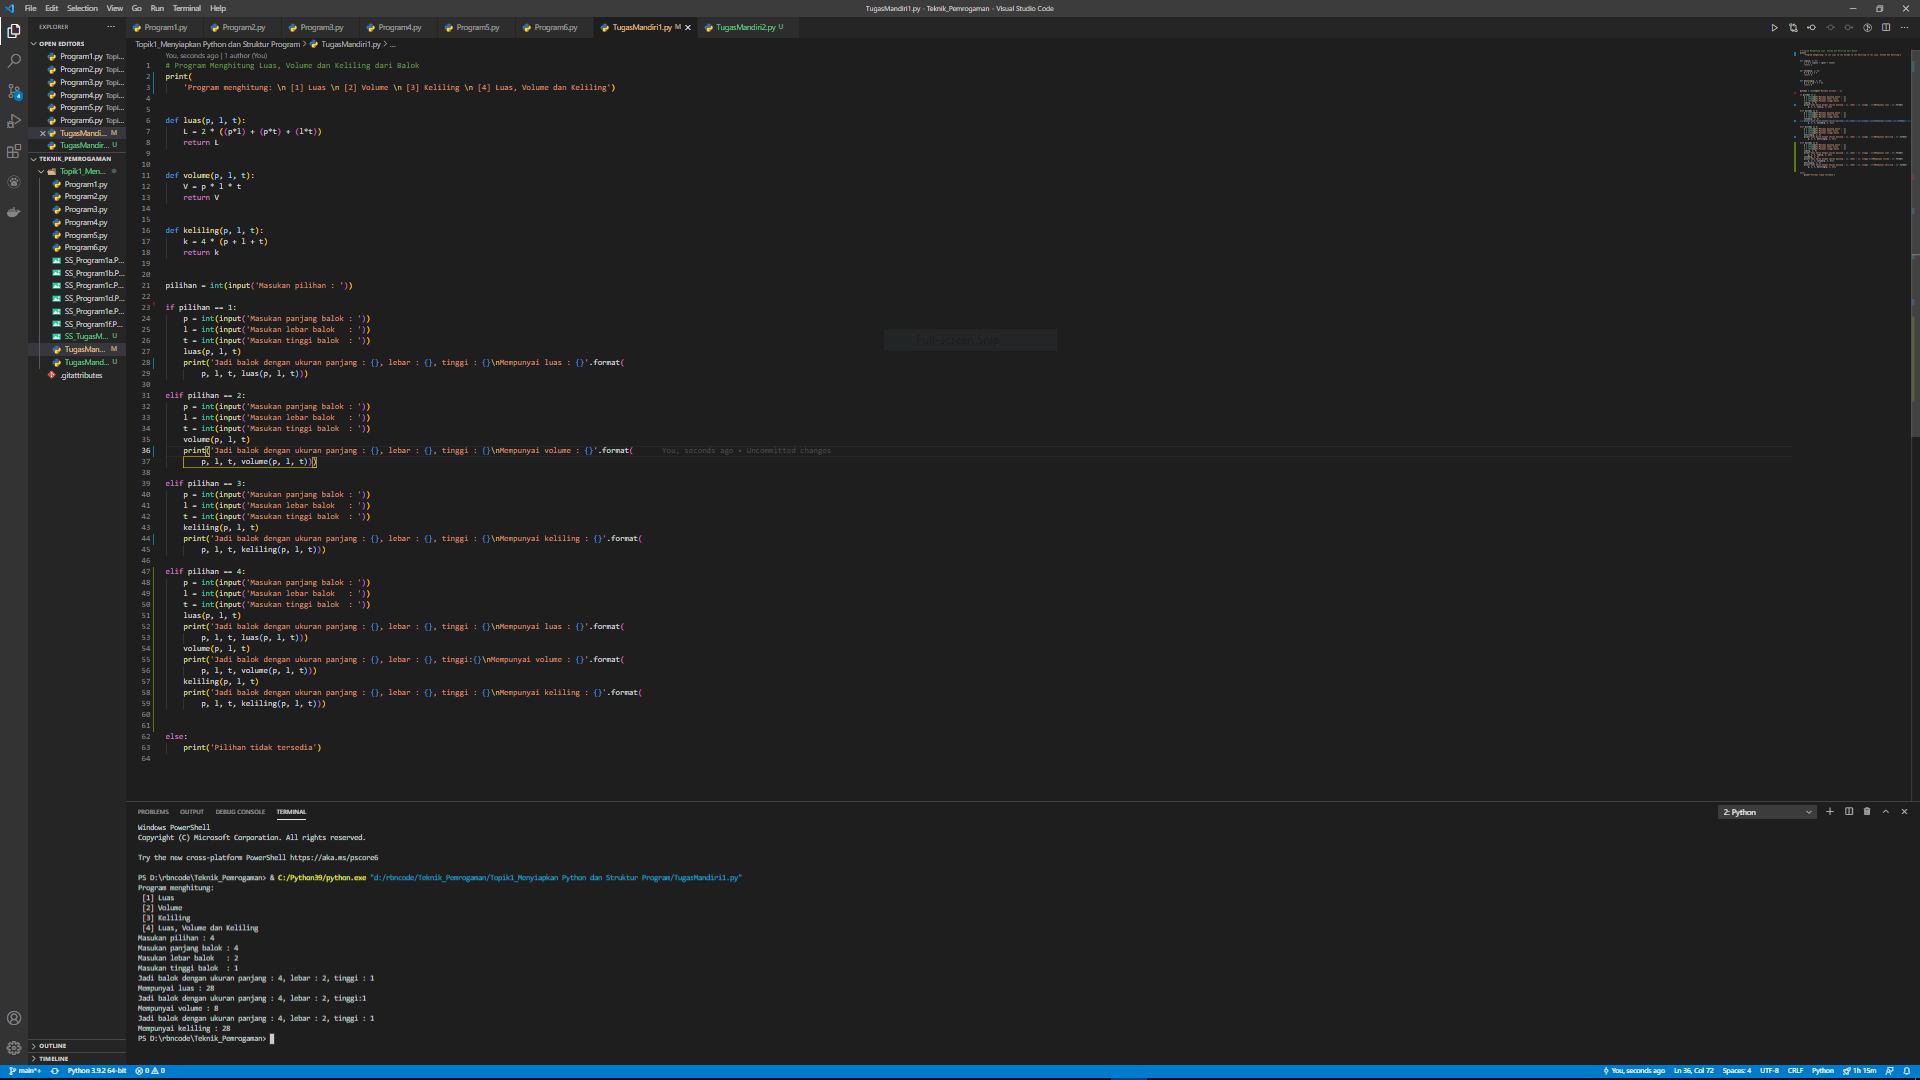
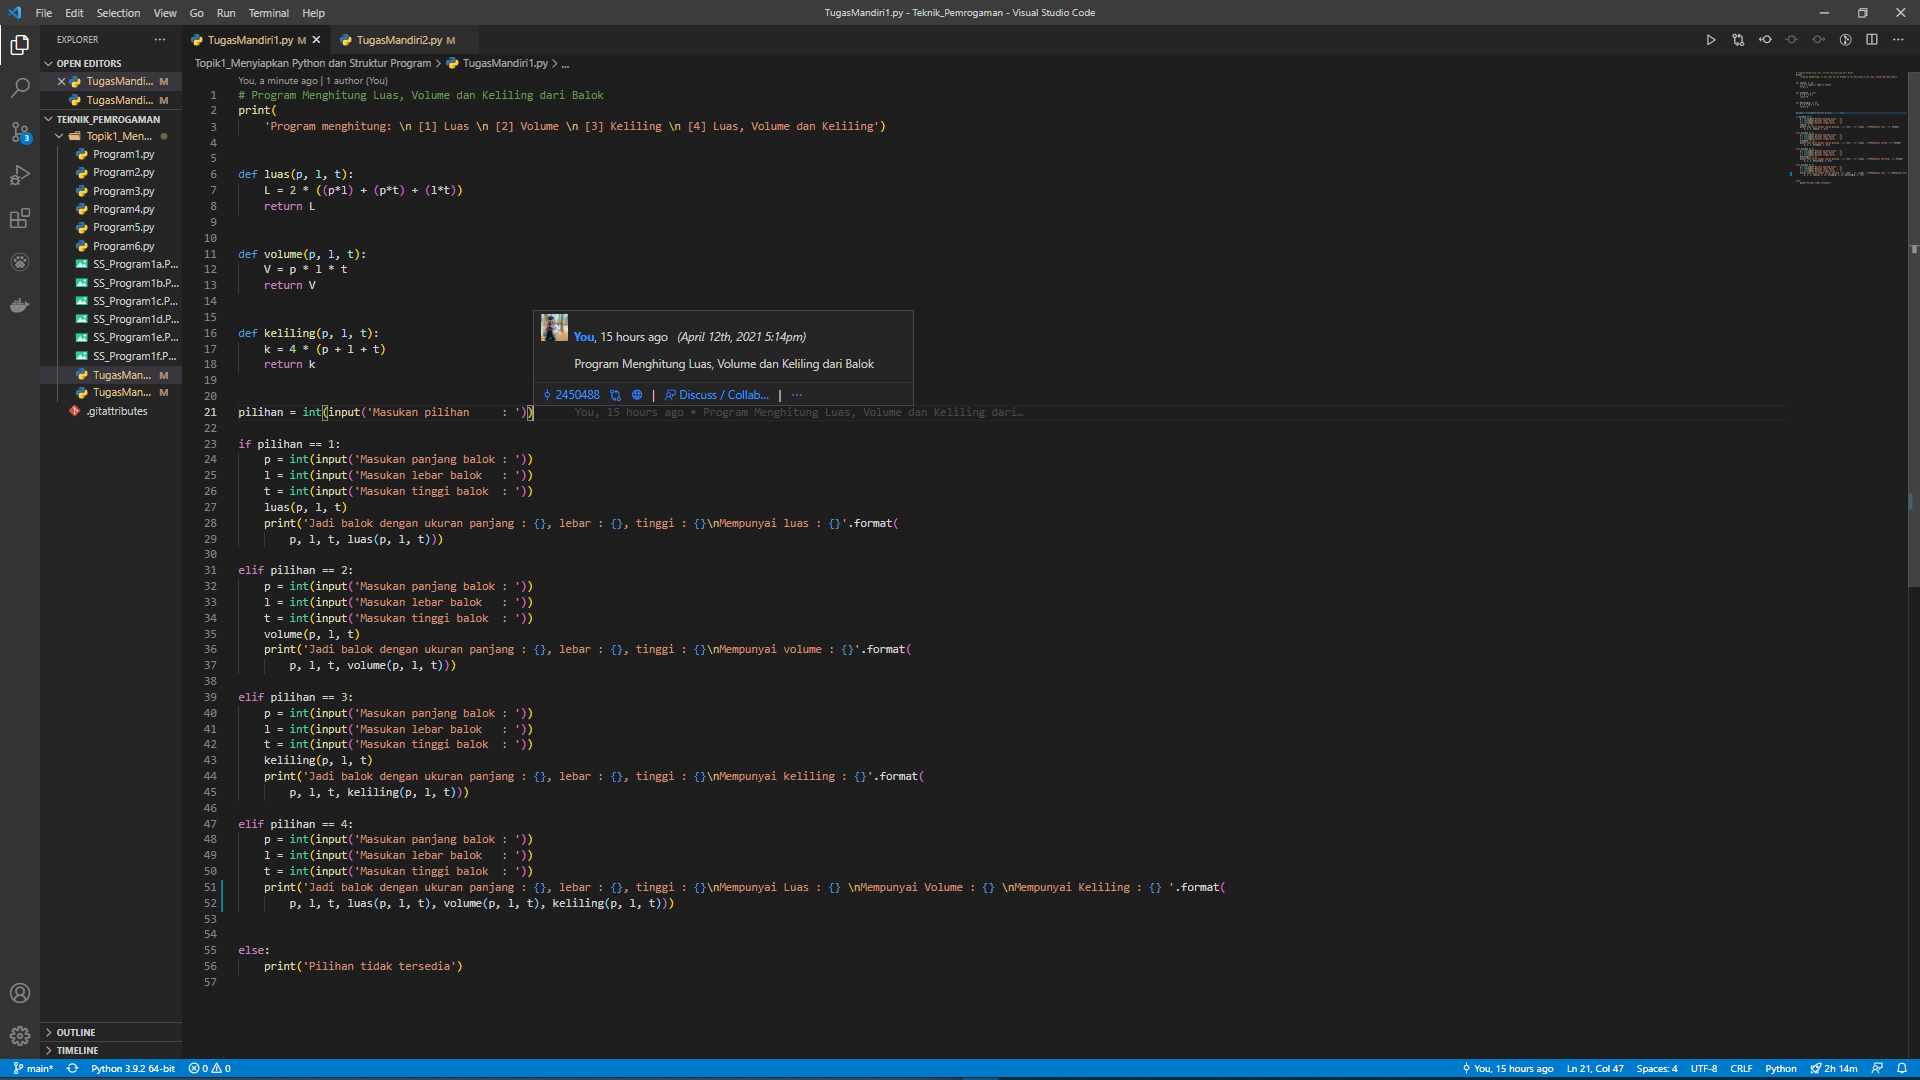
Tugas Mandiri 2 dan SS Output

diff --git a/Topik1_Menyiapkan Python dan Struktur Program/TugasMandiri2.py b/Topik1_Menyiapkan Python dan Struktur Program/TugasMandiri2.py
@@ -1,0 +1,91 @@
+# Program konversi mata uang
+
+print(
+    'Pilih Konversi \n [1] Konversi dari Rupiah Ke Mata Uang Asing \n [2] Konversi dari Mata Uang Asing Ke Rupiah')
+
+
+def RPtoAUD():
+    kurs_rupiah = 11811
+    RPtoAUD = rupiah/kurs_rupiah
+    return RPtoAUD
+
+
+def AUDtoRP():
+    USAtoRP = asing*11811
+    return USAtoRP
+
+
+def RPtoUSD():
+    kurs_rupiah = 14100
+    RPtoUSD = rupiah/kurs_rupiah
+    return RPtoUSD
+
+
+def USDtoRP():
+    USDtoRP = asing*14100
+    return USDtoRP
+
+
+def RPtoEuro():
+    kurs_rupiah = 17800
+    RPtoEuro = rupiah/kurs_rupiah
+    return RPtoEuro
+
+
+def EurotoRP():
+    EurotoRP = asing*17800
+    return EurotoRP
+
+
+menu = int(input('Masukkan Pilihan : '))
+
+
+if menu == 1:
+    print(
+        'Pilih Mata Uang Yang Akan dikonversi \n [1] Rupiah ke Dollar Australia \n [2] Rupiah ke Dolar US \n [3] Rupiah ke Euro')
+
+    pilihan = int(input('Masukkan Pilihan : '))
+
+    if pilihan == 1:
+        rupiah = int(input('Masukkan Nominal Rupiah : '))
+        RPtoAUD()
+        print('{} Rupiah = {} AUD'.format(rupiah, RPtoAUD()))
+
+    elif pilihan == 2:
+        rupiah = int(input('Masukkan Nominal Rupiah : '))
+        RPtoUSD()
+        print('{} Rupiah = {} USD'.format(rupiah, RPtoUSD()))
+
+    elif pilihan == 3:
+        rupiah = int(input('Masukkan Nominal Rupiah : '))
+        RPtoEuro()
+        print('{} Rupiah = {} Euro'.format(rupiah, RPtoEuro()))
+
+    else:
+        print('Pilihan tidak tersedia')
+
+if menu == 2:
+    print(
+        'Pilih Mata Uang Yang Akan dikonversi \n [1] Dollar Australia Ke Rupiah \n [2] Dollar US Ke Rupiah \n [3] Euro Ke Rupiah')
+
+    pilihan = int(input('Masukkan Pilihan : '))
+
+    if pilihan == 1:
+        asing = int(input('Masukkan Nominal AUD : '))
+        AUDtoRP()
+        print('{} AUD = {} Rupiah'.format(asing, AUDtoRP()))
+
+    elif pilihan == 2:
+        asing = int(input('Masukkan Nominal USD : '))
+        USDtoRP()
+        print('{} USD = {} Rupiah'.format(asing, USDtoRP()))
+
+    elif pilihan == 3:
+        asing = int(input('Masukkan Nominal Euro : '))
+        EurotoRP()
+        print('{} Euro = {} Rupiah'.format(asing, EurotoRP()))
+
+    else:
+        print('Pilihan tidak tersedia')
+else:
+    exit()

diff --git a/Topik1_Menyiapkan Python dan Struktur Program/TugasMandiri1.py b/Topik1_Menyiapkan Python dan Struktur Program/TugasMandiri1.py
@@ -48,15 +48,8 @@ elif pilihan == 4:
     p = int(input('Masukan panjang balok : '))
     l = int(input('Masukan lebar balok   : '))
     t = int(input('Masukan tinggi balok  : '))
-    luas(p, l, t)
-    print('Jadi balok dengan ukuran panjang : {}, lebar : {}, tinggi : {}\nMempunyai luas : {}'.format(
-        p, l, t, luas(p, l, t)))
-    volume(p, l, t)
-    print('Jadi balok dengan ukuran panjang : {}, lebar : {}, tinggi : {}\nMempunyai volume : {}'.format(
-        p, l, t, volume(p, l, t)))
-    keliling(p, l, t)
-    print('Jadi balok dengan ukuran panjang : {}, lebar : {}, tinggi : {}\nMempunyai keliling : {}'.format(
-        p, l, t, keliling(p, l, t)))
+    print('Jadi balok dengan ukuran panjang : {}, lebar : {}, tinggi : {}\nMempunyai Luas : {} \nMempunyai Volume : {} \nMempunyai Keliling : {} '.format(
+        p, l, t, luas(p, l, t), volume(p, l, t), keliling(p, l, t)))
 
 
 else:
